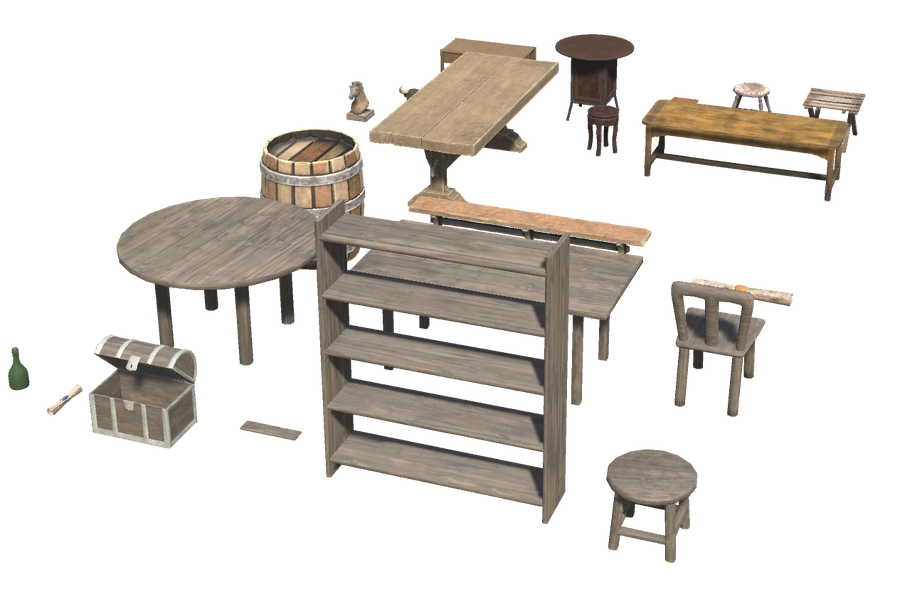
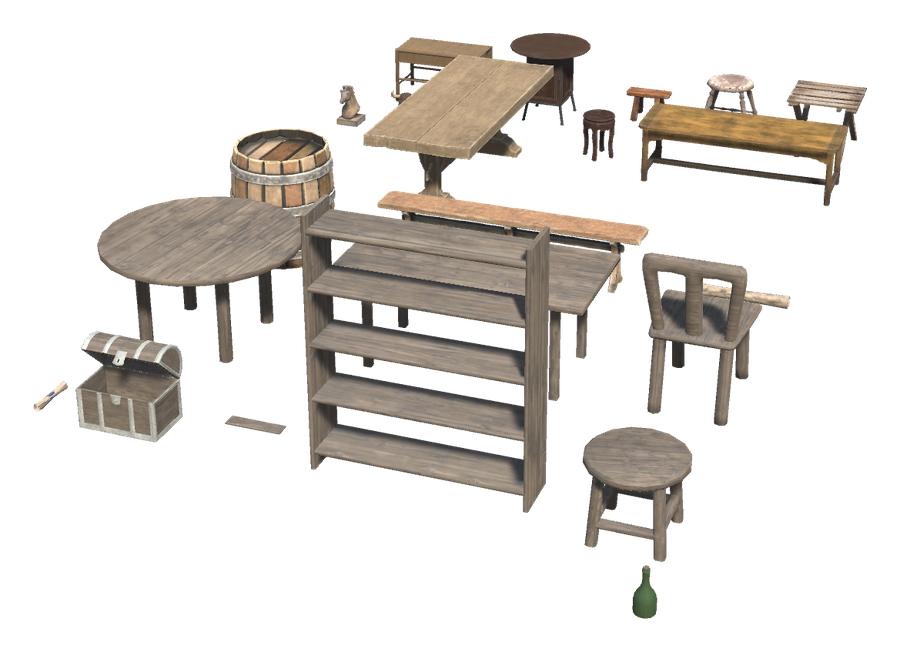
Decor: sit on the seat, facing away from the back, at Valheim's size
The attach point was put at the seat height, but the sitting animation
lifts the body about half a metre above it, so players sat on top of a
chair's back. AddSeat now puts it SitLift (0.5 m) below the seat, as
Valheim's chairs do, and turns it by the new seatYaw: the Wooden Chair's
back is on +z, so one faced into it. The decor stools, Long Bench and
Wooden Chair are raised near Valheim's furniture sizes.

The decor README gains "Chairs, stools and benches", the three checks for
every new seat, and the model skill points to it.

Changed region(s): [[0.0, 0.0302, 0.9644, 0.9648]]

diff --git a/BrudvikWhiteHilt/Decor/DecorPieceFactory.cs b/BrudvikWhiteHilt/Decor/DecorPieceFactory.cs
@@ -33,6 +33,11 @@ public static class DecorPieceFactory
     private const string BasePrefab = "wood_pole2";
     private const string VegetationTemplate = "Bush01";
 
+    // How far the sitting animation lifts the body above the chair's attach point, and the lowest the point may go: a
+    // low stool sinks the feet a little rather than leave the body floating.
+    private const float SitLift = 0.5f;
+    private const float LowestAttach = -0.15f;
+
     // The vanilla bush's material is made for a bush of this height; sway and push are scaled from it.
     private const float TemplateHeight = 3f;
 
@@ -83,7 +88,7 @@ public static class DecorPieceFactory
         AddLight(entry, prefab.transform, bounds);
         if (entry.Seat > 0f)
         {
-            AddSeat(prefab, bounds, entry.Seat);
+            AddSeat(prefab, bounds, entry.Seat, entry.SeatYaw);
         }
 
         Sprite icon = VisualHelper.RenderIcon(prefab);
@@ -428,8 +433,11 @@ public static class DecorPieceFactory
         }
     }
 
-    // A chair like the vanilla one, sitting at the seat height in the middle of the piece, facing its front.
-    private static void AddSeat(GameObject prefab, Bounds bounds, float seat)
+    // A chair like the vanilla one in the middle of the piece, facing seatYaw from its +z. The sitting animation lifts
+    // the body about half a metre above the attach point, as Valheim's chairs show (their seats are 0.5 to 0.6 m high,
+    // their attach points 0 to 0.1 m), so the point goes that much below the seat. With the seat height itself the body
+    // floated half a metre too high, on top of a chair's back.
+    private static void AddSeat(GameObject prefab, Bounds bounds, float seat, float seatYaw)
     {
         Chair vanilla = PrefabManager.Instance.GetPrefab("piece_chair")?.GetComponent<Chair>();
         if (vanilla == null)
@@ -445,7 +453,8 @@ public static class DecorPieceFactory
 
         GameObject attach = new("attach");
         attach.transform.SetParent(prefab.transform, false);
-        attach.transform.localPosition = new Vector3(bounds.center.x, seat, bounds.center.z);
+        attach.transform.localPosition = new Vector3(bounds.center.x, Mathf.Max(seat - SitLift, LowestAttach), bounds.center.z);
+        attach.transform.localRotation = Quaternion.Euler(0f, seatYaw, 0f);
         chair.m_attachPoint = attach.transform;
     }
 }

diff --git a/BrudvikWhiteHilt/Decor/DecorEntry.cs b/BrudvikWhiteHilt/Decor/DecorEntry.cs
@@ -97,6 +97,11 @@ public sealed class DecorEntry
     /// <summary>Height of the seat in metres, or 0 for a piece that cannot be sat on.</summary>
     public float Seat { get; private set; }
 
+    /// <summary>
+    /// Which way one sits, in degrees about the vertical from the model's +z; 180 for a chair whose back is on +z.
+    /// </summary>
+    public float SeatYaw { get; private set; }
+
     /// <summary>What it costs.</summary>
     public RequirementConfig[] Requirements { get; private set; }
 
@@ -152,6 +157,7 @@ public sealed class DecorEntry
             Wind = Flag(json, "wind", false),
             Material = Text(json, "material") ?? "wood",
             Seat = Number(json, "seat", 0f),
+            SeatYaw = Number(json, "seatYaw", 0f),
             LightAt = Number(json, "lightAt", -1f),
             Name = Text(json, "name"),
             Description = Text(json, "description"),

diff --git a/AssetSource/Decor/README.md b/AssetSource/Decor/README.md
@@ -22,7 +22,8 @@ code.
 | `material` | `wood` (default), `stone`, `metal` or `cloth`: health, break effects and the piece material a model is lit with. |
 | `light` | `candle`, `lantern` or `fire`: a flame and a light that need no fuel. |
 | `lightAt` | Where the flame sits, as a share of the height from the foot (0 to 1); by default the top of a candle, the middle of a lantern and the bottom of a fire. |
-| `seat` | Seat height in metres; makes it a chair. |
+| `seat` | Height of the seat surface in metres; makes it a chair. See **Chairs, stools and benches** below. |
+| `seatYaw` | Which way one sits, in degrees about the vertical from the model's +z (default 0). `180` for a chair whose back is on +z. |
 | `cost` | `Item:amount,Item:amount` with Valheim's prefab names. The materials are given back when it is removed. |
 | `name`, `description` | English texts. The Norwegian ones go in `BrudvikWhiteHilt/Translations/Norwegian.json` as `piece_whitehilt_decor_<id>` and `..._description`. |
 | `credit` | Required for a `file:` model: `<Title> by <Author> (<licence>)`, also added to the README's credits. |
@@ -36,3 +37,24 @@ code.
 4. `dotnet test BrudvikWhiteHilt.Tests` checks the ids, tabs, translations, models and credits.
 
 `Download/` holds Poly Haven's original files and is not committed.
+
+## Chairs, stools and benches
+
+Check every new seat on three points; the first decor chairs got all three wrong.
+
+1. **Size like Valheim's own**, not the real-world size `prepare_decor.py` fills in: Valheim's furniture is bigger
+   than life. Stools about 0.55 m high (the vanilla stool is 0.6), chairs 1.2 to 1.3 m to the top of the back, benches
+   about 0.5 m. Raise `height` and set `seat` to match (`seat` is about the stool's height, and about 0.45 of a chair's).
+2. **`seat` is the seat surface, not where the body goes.** The sitting animation lifts the body about half a metre
+   above the chair's attach point, so `DecorPieceFactory.AddSeat` puts the point `SitLift` (0.5 m) below the seat,
+   never lower than `LowestAttach` (-0.15 m), as Valheim's chairs do (their attach points are 0 to 0.1 m high under
+   seats of 0.5 to 0.6 m). Never set `seat` to a lower value to fix a body that floats: fix the model's size instead.
+3. **The back on -z.** One sits facing +z, so a chair's back must rise on its -z side. Measure which side it is on
+   before adding it: take the vertices well above the seat (the back) and see whether their mean lies at -z or +z of
+   the middle. For a bundle model use `BrudvikWhiteHiltUnity/Assets/Decor/decor_<id>.obj` (Unity mirrors x on import,
+   z is as written); for a vanilla prop its mesh, e.g. via `AssetSource/Tools/vanilla_prefab.py`. A back on +z needs
+   `"seatYaw": 180` (the Wooden Chair has it); one on ±x needs 90 or 270. Stools and backless benches face either way.
+
+Then sit on it in the game: the body should rest on the seat with the back behind it. Existing pieces in the world
+take new sizes and seats when the game loads, since they come from the prefab.
+

diff --git a/.github/skills/valheim-custom-model/SKILL.md b/.github/skills/valheim-custom-model/SKILL.md
@@ -88,6 +88,7 @@ Sprite icon = VisualHelper.RenderIcon(item.ItemPrefab); // null on a server or f
 - Vanilla values: `vanilla_prefab.py <prefab> --values` prints component fields (an item's shared data and attack) and animator states/clips; `vanilla_environments.py` prints the weather table (fog, wind, weights per biome).
 
 ## Pitfalls (all hit once already)
+- **Anything to sit on** (a decor chair, stool or bench, or a piece with a `Chair`): make it Valheim-sized (stools ~0.55 m, chairs 1.2–1.3 m), put the attach point about 0.5 m *below* the seat surface (the sitting animation lifts the body that much; vanilla chairs have it at 0–0.1 m), and have the back on -z or turn the attach point (`seatYaw` in decor.json). The first decor chairs were small, sat players on top of the back, and one faced into its back. Details and how to measure the back's side: `AssetSource/Decor/README.md`, "Chairs, stools and benches".
 - **Parts with only a base colour and the same colour share one atlas tile**, so a `paint.json` rule per material paints them all (the palette's seven paint blobs, all grey 0.8 in the glb, came out one colour). Set distinct colours in the glb with `glb_edit.py --colour <material>=r,g,b` instead. A part you do not want at all is dropped with `glb_edit.py --drop <node>`. That is cleaner than a crop box when the part touches the rest.
 - **Unity mirrors x when it imports OBJ.** A part you measure at +x in the converted `.obj` is at -x in the game. Negate x before using a measured position in code (y and z are unchanged). The Chain Bench chains first ended up on the vise instead of the stump because of this.
 - A flat model (a curtain of chains, a plank) seen **edge-on** looks like a thin line. Check which axis is thin in the `[WhiteHilt] Mesh` bounds line and rotate it (`AddMesh(..., rotation)`) so its broad side faces the player.

diff --git a/CHANGELOG.md b/CHANGELOG.md
@@ -2,6 +2,12 @@
 
 All notable changes to BrudvikWhiteHilt. Newest version first.
 
+## Unreleased
+
+### Fixed
+- **Decor seats**: you sat about half a metre too high, on top of a chair's back, since the sitting animation lifts the body above the seat point; it now sits on the seat as on Valheim's own chairs. The Wooden Chair no longer has you facing into its back.
+- The decor stools, the Long Bench and the Wooden Chair are a little bigger, near Valheim's own (stools 0.55 m, the chair 1.2 m, the Low Stool 0.3 m).
+
 ## v0.102.0 - 2026-10-07
 
 ### Added
